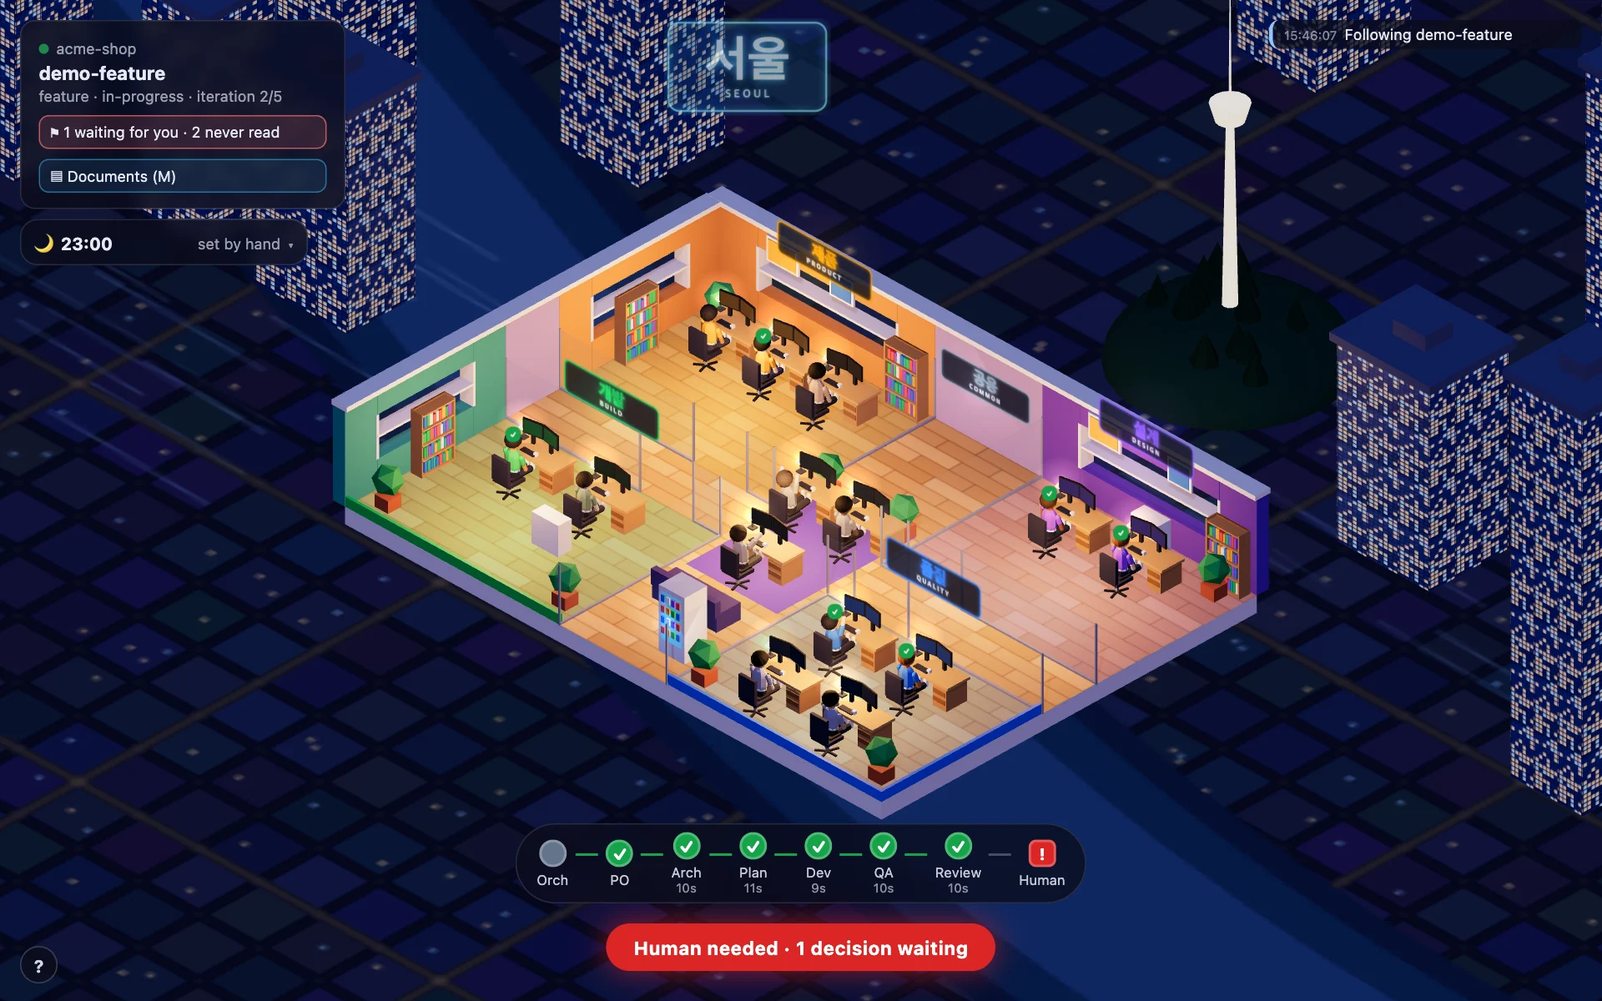
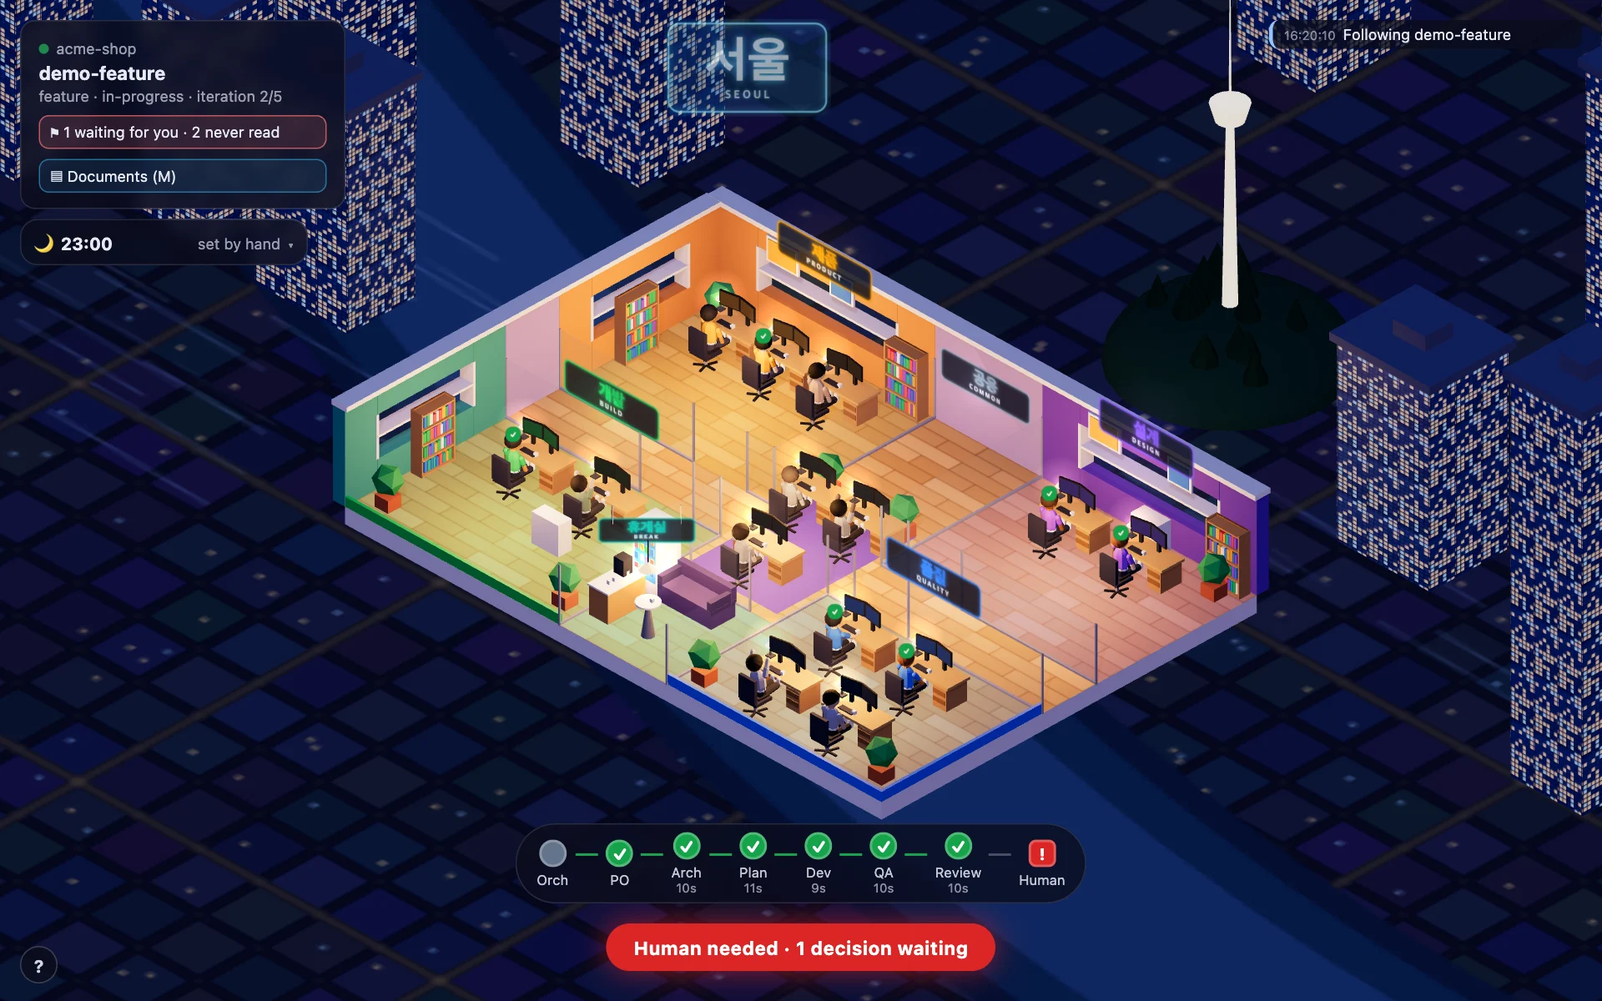
Office floor: a break room for the agents with nothing to do
- The break room past the hub: glass wall with a doorway at each end, its own warm light, a sofa facing the room, a coffee counter under its sign, a high table under a pendant lamp
- Now and then a resting role of the run strolls there and back: at most three away, no trail, "on a break" in the tooltip
- Who stays at the desk: at work, blocked, waiting for a human, about to receive a folder, shown in the panel, or outside the run; work calls a resting agent straight back
- Two at the high table chat: heads turned to each other, nods, a talking hand
- Routing to any point of the floor; tests that every role reaches every break place round the furniture
- ?breaks=off and ?breaks=busy keep the screenshots independent of chance; new break-room screenshot and README section

diff --git a/tools/office/web/agents.js b/tools/office/web/agents.js
@@ -1,6 +1,6 @@
 // One low-poly agent per role. Draws what the snapshot says; decides nothing about the workflow.
 import * as THREE from "three";
-import { TEAM_COLORS } from "./layout.js";
+import { BREAK_SPOTS, TEAM_COLORS } from "./layout.js";
 import { STATE_COLORS, STATE_GLYPHS, roleTitle } from "./roles.js";
 
 const SPEED = 3; // world units per second while walking a handoff: slow enough to follow with the eye
@@ -11,7 +11,14 @@ const HANDOVER_PAUSE = 0.6;
 const DEFER_MAX = 9; // the receiver starts working when the walker arrives, or after this
 const CHECK_SECONDS = 3;
 const IDLE_CYCLE = 18; // seconds of one resting routine: look around, stretch, sip, daydream
-const SKIN = 0xf1c7a0;
+// The break room: now and then a resting agent strolls there for a coffee or a sit on the sofa, and back.
+const BREAK_MAX = 3; // at most this many away from their desk at once, so the floor still reads who is where
+const BREAK_GAP = [4, 9]; // seconds between two departures
+const BREAK_STAY = [12, 20]; // seconds spent in the break room
+const BREAK_REST = 30; // back from a break, an agent stays at its desk at least this long
+const JOIN_CHANCE = 0.7; // someone already at the high table draws the next one there, to chat
+const BREAK_SPEED = 1.8; // a stroll, slower than a handoff
+const between = ([lo, hi]) => lo + Math.random() * (hi - lo);
 
 function textSprite(text, { fg, bg, size, w, h, scale }) {
   const c = document.createElement("canvas");
@@ -175,7 +182,9 @@ function makeAgent(role, seat) {
   return { role, seat, root, body, neck, arms, legs, folder, label, pips, sprites, materials, dim: 0, mode: "seated", phase: Math.random() * 6 };
 }
 
-export function createAgents(scene, layout, stations) {
+// breaks: "on", "off" (everyone stays at the desk), or "busy" (the break room fills at once and stays full).
+export function createAgents(scene, layout, stations, { breaks: breakMode = "on" } = {}) {
+  const busy = breakMode === "busy";
   const agents = new Map();
   const targets = []; // invisible boxes the pointer can hit, one on the desk and one on the agent
   const hitMaterial = new THREE.MeshBasicMaterial({ visible: false });
@@ -212,6 +221,9 @@ export function createAgents(scene, layout, stations) {
   const walks = []; // handoffs under way: a walker keeps its way home after the next handoff has begun
   const deferred = new Map(); // role -> seconds left before it shows as working
   const checks = new Map(); // role -> seconds left of the green check
+  const breaks = new Map(); // role -> { path, back, idx, phase: "out" | "stay" | "back", stay, spot, hurry }
+  const rested = new Map(); // role -> the time it came back from its last break
+  let nextBreak = breakMode === "busy" ? 0.3 : 4;
   let time = 0;
 
   const stateOf = (role) => (deferred.has(role) ? "idle" : run?.roles?.[role]?.state ?? "idle");
@@ -260,12 +272,102 @@ export function createAgents(scene, layout, stations) {
 
   function cancelWalks() {
     for (const walk of [...walks]) endWalk(walk, { seat: true });
+    for (const role of [...breaks.keys()]) endBreak(role);
     deferred.clear();
+  }
+
+  function endBreak(role) {
+    if (!breaks.delete(role)) return;
+    rested.set(role, time);
+    sit(agents.get(role));
+  }
+
+  // Work, a handoff on its way, or the role leaving the run: back to the desk now, at a handoff's pace.
+  function callBack(role) {
+    const leave = breaks.get(role);
+    if (!leave || leave.phase === "back") return;
+    // Walking out between path[idx - 1] and path[idx]: the way back starts at path[idx - 1].
+    leave.idx = leave.phase === "out" ? leave.path.length - leave.idx : 1;
+    leave.phase = "back";
+    leave.hurry = true;
+    agents.get(role).mode = "walking";
+  }
+
+  const resting = (role) => ["idle", "done"].includes(run?.roles?.[role]?.state ?? "idle");
+
+  // Who may leave: a role of the run (or any, with no run) with nothing to do, at its desk, not shown in the
+  // panel, not about to receive a folder, and not just back from a break.
+  function mayLeave(role, agent) {
+    return agent.mode === "seated" && !breaks.has(role) && !deferred.has(role) && !checks.has(role) && !outside(role)
+      && resting(role) && role !== selected && !walks.some((walk) => walk.agent === agent)
+      && time - (rested.get(role) ?? -Infinity) > BREAK_REST;
+  }
+
+  function scheduleBreak() {
+    if (breaks.size >= BREAK_MAX) return;
+    const taken = new Set([...breaks.values()].map((leave) => leave.spot));
+    const spots = BREAK_SPOTS.filter((spot) => !taken.has(spot));
+    const candidates = [...agents].filter(([role, agent]) => mayLeave(role, agent));
+    if (!spots.length || !candidates.length) return;
+    const [role, agent] = candidates[Math.floor(Math.random() * candidates.length)];
+    // Someone at the high table: the next one joins them more often than not.
+    const tableTaken = [...taken].some((spot) => spot.table);
+    const tableFree = spots.filter((spot) => spot.table);
+    const pool = tableFree.length && (busy || (tableTaken && Math.random() < JOIN_CHANCE)) ? tableFree : spots;
+    const spot = pool[Math.floor(Math.random() * pool.length)];
+    const path = layout.breakPath(role, spot);
+    breaks.set(role, { path, back: [...path].reverse(), idx: 1, phase: "out", stay: busy ? Infinity : between(BREAK_STAY), spot, hurry: false });
+    agent.mode = "walking";
+  }
+
+  function stepBreak(role, leave, dt) {
+    const agent = agents.get(role);
+    if (leave.phase === "stay") {
+      leave.stay -= dt;
+      if (leave.stay > 0) return;
+      leave.phase = "back";
+      leave.idx = 1;
+      agent.mode = "walking";
+    }
+    const path = leave.phase === "out" ? leave.path : leave.back;
+    const target = path[leave.idx];
+    const dx = target.x - agent.root.position.x;
+    const dz = target.z - agent.root.position.z;
+    const dist = Math.hypot(dx, dz);
+    const step = (leave.hurry ? SPEED : BREAK_SPEED) * dt;
+    if (dist > 1e-6) agent.root.rotation.y = Math.atan2(dx, dz);
+    if (step < dist) {
+      agent.root.position.x += (dx / dist) * step;
+      agent.root.position.z += (dz / dist) * step;
+      return;
+    }
+    agent.root.position.set(target.x, 0, target.z);
+    leave.idx += 1;
+    if (leave.idx < path.length) return;
+    if (leave.phase === "back") {
+      endBreak(role);
+      return;
+    }
+    leave.phase = "stay";
+    agent.root.rotation.y = leave.spot.rotY;
+    agent.mode = leave.spot.sits ? "seated" : "standing";
+  }
+
+  // Another agent standing at the high table, to chat with: the nearest one.
+  function chatPartner(role) {
+    const mine = breaks.get(role);
+    if (!mine || mine.phase !== "stay" || !mine.spot.table) return null;
+    let partner = null;
+    for (const [other, leave] of breaks) {
+      if (other !== role && leave.phase === "stay" && leave.spot.table) partner = agents.get(other);
+    }
+    return partner;
   }
 
   // A new handoff cuts short the walkers who have not yet reached their receiver, and the one
   // who is about to walk again; the others finish their way back to their desk.
   function startWalk(from, to, red) {
+    endBreak(from); // it was at work, so at its desk; never leave a walker in the break room
     for (const walk of [...walks]) {
       if (walk.agent.role !== from && walk.phase !== "out") continue;
       deferred.delete(walk.to);
@@ -361,6 +463,15 @@ export function createAgents(scene, layout, stations) {
       if (left - dt <= 0) checks.delete(role);
       else checks.set(role, left - dt);
     }
+    for (const role of breaks.keys()) {
+      if (deferred.has(role) || !resting(role) || outside(role)) callBack(role);
+    }
+    for (const [role, leave] of [...breaks]) stepBreak(role, leave, dt);
+    nextBreak -= dt;
+    if (breakMode !== "off" && nextBreak <= 0) {
+      nextBreak = busy ? 0.3 : between(BREAK_GAP);
+      scheduleBreak();
+    }
 
     for (const [role, agent] of agents) {
       const state = stateOf(role);
@@ -376,7 +487,8 @@ export function createAgents(scene, layout, stations) {
         agent.arms[1].rotation.x = -0.9;
         agent.body.rotation.z = 0;
       } else {
-        agent.legs[0].rotation.x = agent.legs[1].rotation.x = -Math.PI / 2; // seated: thighs forward
+        // Seated, at the desk or on the sofa: thighs forward. Standing at the counter or the table: straight.
+        agent.legs[0].rotation.x = agent.legs[1].rotation.x = agent.mode === "standing" ? 0 : -Math.PI / 2;
         const typing = working ? Math.sin(t) * 0.18 : 0;
         agent.arms[0].rotation.x = (working ? -1.15 : -0.35) + typing;
         agent.arms[1].rotation.x = (working ? -1.15 : -0.35) - typing;
@@ -390,6 +502,18 @@ export function createAgents(scene, layout, stations) {
         if (pose) {
           agent.arms[0].rotation.x += pose.armLeft;
           agent.arms[1].rotation.x += pose.armRight;
+        }
+        // Chatting at the high table: the head turns to the other one and nods, a hand talks along.
+        const partner = chatPartner(role);
+        if (partner) {
+          const toward = Math.atan2(partner.root.position.x - agent.root.position.x, partner.root.position.z - agent.root.position.z);
+          let yaw = toward - agent.root.rotation.y;
+          yaw = Math.atan2(Math.sin(yaw), Math.cos(yaw));
+          agent.neck.rotation.y = Math.max(-1.1, Math.min(1.1, yaw));
+          agent.neck.rotation.x = 0.06 * Math.sin(time * 3.2 + agent.phase);
+          agent.body.rotation.x = 0;
+          agent.arms[0].rotation.x = -0.35;
+          agent.arms[1].rotation.x = -0.35 - 0.7 * Math.max(0, Math.sin(time * 1.7 + agent.phase * 2));
         }
       }
       if (walking) {
@@ -441,5 +565,5 @@ export function createAgents(scene, layout, stations) {
     selected = select;
   };
 
-  return { apply, update, targets, setHighlight };
+  return { apply, update, targets, setHighlight, onBreak: (role) => breaks.has(role) };
 }

diff --git a/tools/office/web/scene.js b/tools/office/web/scene.js
@@ -1,6 +1,6 @@
 // The static floor: building, furniture, signs, night city. No workflow knowledge here.
 import * as THREE from "three";
-import { BOOKSHELVES, CABINETS, FLOOR, HUB, PARTITIONS, PLANTS, ROOMS, SIGN_FALLBACK, SIGN_LABELS, SOFA, TEAM_COLORS, VENDING } from "./layout.js";
+import { BOOKSHELVES, BREAK_ROOM, CABINETS, COFFEE, FLOOR, HIGH_TABLE, HUB, PARTITIONS, PLANTS, ROOMS, SIGN_FALLBACK, SIGN_LABELS, SOFA, TEAM_COLORS, VENDING } from "./layout.js";
 import { daylightAt, mix, skyGradient, sunArc, twilightAt } from "./daylight.js";
 import { createOutside } from "./outside.js";
 import { hangulAvailable, mulberry32, signTexture } from "./textures.js";
@@ -331,7 +331,7 @@ export function createScene(canvas, layout) {
   }
 
   // Furniture that makes it an office.
-  // Past the hub's second row of desks (z 8 to 10): the sofa and the vending machine wait in the corridor.
+  // Past the hub's second row of desks (z 8 to 10), the break room: the vending machine against its west glass.
   const VENDING_Z = VENDING.z;
   const vending = box(0.95, 2.1, 0.85, 0xe6ebf5, [VENDING.x, 1.05, VENDING_Z]);
   const front = new THREE.Mesh(new THREE.PlaneGeometry(0.75, 1.5), new THREE.MeshStandardMaterial({ color: 0x20324a, emissive: 0x4fb4ff, emissiveIntensity: 0.6 }));
@@ -344,8 +344,50 @@ export function createScene(canvas, layout) {
   scene.add(glow(0x4fb4ff, 2.6, 0.35, [VENDING.x, 1.2, VENDING_Z + 0.6]));
   for (const [at, facing] of BOOKSHELVES) scene.add(bookshelf(at, facing));
   for (const [x, z] of CABINETS) scene.add(box(1.0, 1.0, 0.5, 0xeef2fa, [x, 0.5, z]));
-  scene.add(box(2.4, 0.55, 0.9, 0x4a3f82, [SOFA.x, 0.28, SOFA.z]), box(2.4, 0.5, 0.2, 0x4a3f82, [SOFA.x, 0.7, SOFA.z + 0.4]));
+  // The sofa, its back to the hub: who sits there faces the room, and the camera.
+  scene.add(box(SOFA.w, 0.55, 0.9, 0x4a3f82, [SOFA.x, 0.28, SOFA.z]), box(SOFA.w, 0.5, 0.2, 0x4a3f82, [SOFA.x, 0.7, SOFA.z - 0.4]));
+  for (const dx of [-1, 1]) scene.add(box(0.16, 0.4, 0.9, 0x3d3470, [SOFA.x + dx * (SOFA.w / 2 - 0.08), 0.62, SOFA.z]));
   for (const [x, z] of PLANTS) scene.add(plant(x, z));
+
+  // The break room: a tinted floor, a coffee counter with its machine, a high table, and its sign.
+  const breakTint = new THREE.Mesh(new THREE.PlaneGeometry(BREAK_ROOM.w, BREAK_ROOM.d), new THREE.MeshBasicMaterial({ color: BREAK_ROOM.color, transparent: true, opacity: 0.3 }));
+  breakTint.rotation.x = -Math.PI / 2;
+  breakTint.position.set(BREAK_ROOM.x + BREAK_ROOM.w / 2, 0.015, BREAK_ROOM.z + BREAK_ROOM.d / 2);
+  scene.add(breakTint);
+  // Its own light, warmer than the desks', dimmed by day with the other lamps.
+  const breakLamp = new THREE.PointLight(0xffc78a, 22, 7, 1.3);
+  breakLamp.position.set(BREAK_ROOM.x + BREAK_ROOM.w / 2, 2.6, BREAK_ROOM.z + BREAK_ROOM.d / 2);
+  scene.add(breakLamp);
+  lamps.push(breakLamp);
+  // A pendant lamp over the high table, lit with the other lamps.
+  const pendantShade = new THREE.Mesh(new THREE.ConeGeometry(0.26, 0.24, 16, 1, true), new THREE.MeshStandardMaterial({ color: 0xffc78a, emissive: 0xffc78a, emissiveIntensity: 1.4, side: THREE.DoubleSide }));
+  pendantShade.position.set(HIGH_TABLE.x, 2.2, HIGH_TABLE.z);
+  SHADES.push({ material: pendantShade.material, base: 1.4 });
+  const pendantCord = box(0.02, 0.7, 0.02, 0x2a2e44, [HIGH_TABLE.x, 2.65, HIGH_TABLE.z]);
+  pendantCord.castShadow = false;
+  scene.add(pendantShade, pendantCord, glow(0xffc78a, 1.8, 0.5, [HIGH_TABLE.x, 2.12, HIGH_TABLE.z]));
+  scene.add(box(0.7, 0.95, 1.4, 0xb98a58, [COFFEE.x, 0.475, COFFEE.z]), box(0.78, 0.05, 1.48, 0xf4f6fb, [COFFEE.x, 0.97, COFFEE.z]));
+  scene.add(box(0.36, 0.5, 0.34, 0x2a2e44, [COFFEE.x - 0.08, 1.25, COFFEE.z - 0.3]), box(0.1, 0.12, 0.1, 0xf1f5f9, [COFFEE.x + 0.06, 1.06, COFFEE.z - 0.3]));
+  for (const dz of [0.15, 0.35]) scene.add(box(0.09, 0.11, 0.09, 0xf1f5f9, [COFFEE.x + 0.05, 1.05, COFFEE.z + dz]));
+  const tableTop = new THREE.Mesh(new THREE.CylinderGeometry(0.36, 0.36, 0.05, 20), new THREE.MeshStandardMaterial({ color: 0xf4f6fb, roughness: 0.5 }));
+  tableTop.position.set(HIGH_TABLE.x, 1.05, HIGH_TABLE.z);
+  tableTop.castShadow = true;
+  const tableFoot = new THREE.Mesh(new THREE.CylinderGeometry(0.05, 0.2, 1.03, 10), new THREE.MeshStandardMaterial({ color: 0x8a93ad, roughness: 0.4, metalness: 0.4 }));
+  tableFoot.position.set(HIGH_TABLE.x, 0.515, HIGH_TABLE.z);
+  scene.add(tableTop, tableFoot, box(0.09, 0.11, 0.09, 0xf1f5f9, [HIGH_TABLE.x + 0.1, 1.13, HIGH_TABLE.z - 0.05]));
+  const breakLabel = useHangul ? "휴게실" : "break";
+  const breakSign = new THREE.Mesh(new THREE.PlaneGeometry(2.6, 0.82), new THREE.MeshBasicMaterial({ map: signTexture(breakLabel, BREAK_ROOM.color, useHangul ? "BREAK" : null), transparent: true, toneMapped: false }));
+  SIGN_MATERIALS.push(breakSign.material);
+  // Hung over the coffee counter and turned to the camera, which looks from +x, +z: flat on the partition, it read edge-on.
+  breakSign.rotation.y = Math.PI / 4;
+  breakSign.position.set(COFFEE.x + 0.5, 2.45, COFFEE.z - 0.6);
+  scene.add(breakSign, glow(new THREE.Color(BREAK_ROOM.color), 2.6, 0.2, [breakSign.position.x + 0.14, breakSign.position.y, breakSign.position.z + 0.14]));
+  for (const dx of [-0.9, 0.9]) {
+    // Two thin cords from the ceiling, along the sign.
+    const cord = box(0.02, 0.6, 0.02, 0x8a93ad, [breakSign.position.x + dx * Math.SQRT1_2, 2.95, breakSign.position.z - dx * Math.SQRT1_2]);
+    cord.castShadow = false;
+    scene.add(cord);
+  }
   for (const [x, w] of [[2.4, 1.2], [4.6, 0.9], [14.4, 1.2], [17.2, 0.9]]) {
     scene.add(box(w, 0.8, 0.06, 0xf4f6fb, [x, 2.55, 0.06]), box(w - 0.16, 0.64, 0.02, [0xe8505b, 0x3b82f6, 0xf5a623, 0x22c55e][Math.round(x) % 4], [x, 2.55, 0.1], { emissive: 0x111111 }));
   }

diff --git a/tools/office/web/layout.js b/tools/office/web/layout.js
@@ -35,14 +35,30 @@ export const PARTITIONS = [
   [8, 8, 8, 14],
   [12, 8, 20, 8, [13, 15]],
   [12, 8, 12, 14],
+  [8.9, 10, 11.1, 10], // the break room's glass behind the sofa, a doorway on each side of it
 ];
 
 // Where the furniture stands, so that scene.js draws it and the walkers go round it from the same numbers.
 export const PLANTS = [[0.8, 0.8], [11.4, 4.6], [8.6, 4.6], [0.8, 13.2], [19.2, 13.2], [19.2, 0.8], [7.4, 13.2], [12.6, 13.2]];
 export const BOOKSHELVES = [[[7.2, 0.28], "z"], [[19.2, 0.28], "z"], [[0.28, 11], "x"], [[0.28, 3.4], "x"]];
 export const CABINETS = [[5.2, 11.5], [16.4, 0.35]];
-export const SOFA = { x: 10, z: 10.9 };
-export const VENDING = { x: 11.2, z: 12.6 };
+export const SOFA = { x: 10, z: 10.9, w: 2.0 }; // its back to the hub, facing the break room
+export const VENDING = { x: 8.53, z: 10.9 }; // against the west glass, beside the sofa, which it no longer hides
+
+// The break room, past the hub's second row: the sofa, the vending machine, a coffee counter and a high table.
+export const BREAK_ROOM = { x: 8, z: 10, w: 4, d: 4, color: "#14b8a6" };
+export const COFFEE = { x: 8.55, z: 12.4 }; // a counter 0.7 by 1.4, the machine on top
+export const HIGH_TABLE = { x: 10, z: 12.7 };
+// Where a resting agent goes: two places on the sofa, one at the coffee counter, three round the high table.
+// rotY is the way it faces, as on a seat; `sits` for the sofa; `table` where two can chat.
+export const BREAK_SPOTS = [
+  { x: 9.5, z: 11.0, rotY: 0, sits: true },
+  { x: 10.5, z: 11.0, rotY: 0, sits: true },
+  { x: 9.2, z: 11.95, rotY: -Math.PI / 2 },
+  { x: 10, z: 12.02, rotY: 0, table: true },
+  { x: 10, z: 13.38, rotY: Math.PI, table: true },
+  { x: 9.33, z: 12.85, rotY: Math.PI / 2, table: true },
+];
 
 const rect = (name, x, z, w, d) => ({ name, x0: x - w / 2, x1: x + w / 2, z0: z - d / 2, z1: z + d / 2 });
 
@@ -59,8 +75,10 @@ export const OBSTACLES = [
   ...PLANTS.map(([x, z]) => rect("plant", x, z, 0.8, 0.8)), // the leaves spread wider than the pot
   ...BOOKSHELVES.map(([[x, z], facing]) => (facing === "z" ? rect("bookshelf", x, z, 1.2, 0.42) : rect("bookshelf", x, z, 0.42, 1.2))),
   ...CABINETS.map(([x, z]) => rect("cabinet", x, z, 1.0, 0.5)),
-  { name: "sofa", x0: SOFA.x - 1.2, x1: SOFA.x + 1.2, z0: SOFA.z - 0.45, z1: SOFA.z + 0.5 },
+  { name: "sofa", x0: SOFA.x - SOFA.w / 2, x1: SOFA.x + SOFA.w / 2, z0: SOFA.z - 0.5, z1: SOFA.z + 0.45 },
   rect("vending machine", VENDING.x, VENDING.z, 0.95, 0.85),
+  rect("coffee counter", COFFEE.x, COFFEE.z, 0.7, 1.4),
+  rect("high table", HIGH_TABLE.x, HIGH_TABLE.z, 0.7, 0.7),
 ];
 
 const DESK = { w: 1.9, d: 0.85 };
@@ -194,11 +212,11 @@ export function createLayout(roleTeams) {
     return true;
   };
 
-  // Out of the chair, round the desks, chairs, partitions and furniture, to stand next to the receiver's chair.
+  // Out of the chair, round the desks, chairs, partitions and furniture, as close to `b` as the floor lets it:
+  // next to the receiver's chair for a handoff, onto the sofa or by the counter for a break.
   // The route found on the grid is pulled tight into a few straight segments, the way a person would walk it.
-  function walkPath(fromRole, toRole) {
+  function walkTo(fromRole, b) {
     const { free, dist, prev, centre } = routeFrom(fromRole);
-    const b = seatOf(toRole);
     let goal = -1;
     let best = Infinity;
     for (let i = 0; i < dist.length; i++) {
@@ -225,5 +243,15 @@ export function createLayout(roleTeams) {
     return path.map((p) => ({ x: Math.round(p.x * 100) / 100, z: Math.round(p.z * 100) / 100 }));
   }
 
-  return { FLOOR, ROOMS, HUB, seats, seatOf, walkPath };
+  const walkPath = (fromRole, toRole) => walkTo(fromRole, seatOf(toRole));
+
+  // To a place in the break room. The sofa is solid for the router: the last step sits down on it.
+  function breakPath(fromRole, spot) {
+    const path = walkTo(fromRole, spot);
+    const end = path.at(-1);
+    if (Math.hypot(end.x - spot.x, end.z - spot.z) > 0.01) path.push({ x: spot.x, z: spot.z });
+    return path;
+  }
+
+  return { FLOOR, ROOMS, HUB, seats, seatOf, walkPath, breakPath };
 }

diff --git a/tools/office/web/main.js b/tools/office/web/main.js
@@ -14,7 +14,9 @@ const first = await (await fetch("/api/snapshot")).json();
 const layout = createLayout(first.role_teams);
 const canvas = document.getElementById("floor");
 const view = createScene(canvas, layout);
-const agents = createAgents(view.scene, layout, view.stations);
+// ?breaks=off keeps everyone at their desk, ?breaks=busy fills the break room at once: a screenshot or a test
+// then does not depend on chance.
+const agents = createAgents(view.scene, layout, view.stations, { breaks: new URLSearchParams(location.search).get("breaks") ?? "on" });
 const aboutRole = first.role_about ?? {};
 
 // The hour follows the machine's clock, unless a period or an hour is picked by hand (or ?time=HH:MM).
@@ -326,7 +328,7 @@ createPicker({
     }
     const info = lastRun?.roles?.[role];
     const last = info?.reports?.at(-1);
-    const lines = [[layout.seats.get(role).team, info?.state ?? "idle", info?.verdict].filter(Boolean).join(" · ")];
+    const lines = [[layout.seats.get(role).team, info?.state ?? "idle", info?.verdict, agents.onBreak(role) && "on a break"].filter(Boolean).join(" · ")];
     if (aboutRole[role]) lines.push(aboutRole[role].length > 110 ? `${aboutRole[role].slice(0, 110).replace(/\s+\S*$/, "")}…` : aboutRole[role]);
     if (last) lines.push(`${last.name} · ${ago(last.mtime)}${last.duration != null ? ` · took ${took(last.duration)}` : ""}`);
     hud.showTip(roleTitle(role), lines, event.clientX, event.clientY);

diff --git a/tools/office/README.md b/tools/office/README.md
@@ -52,6 +52,12 @@ The floor follows your machine's clock. Sunrise is at 6:00 and sunset at 18:00 e
 
 The time box under the run card is folded to the hour; click it to open the controls. Pick `Dawn`, `Day`, `Dusk` or `Night` to fix a period, drag the slider to fix an hour, and `Auto` to follow the clock again. `N` cycles auto, dawn, day, dusk, night. Opening the page with `?time=19:30` starts at that hour, which is handy for a screenshot or a test. `T` (warm or cool palette) is independent of the hour.
 
+## Break room
+
+![The break room past the hub, behind its glass: a coffee counter under its sign, a high table under a pendant lamp, the sofa facing the room](docs/break-room.webp)
+
+Past the hub, behind a glass wall with a doorway at each end, the `휴게실` (break) room has its own warm light, a sofa facing the room, the vending machine, a coffee counter and a high table under a pendant lamp. Now and then a role of the run with nothing to do strolls there, sits on the sofa or stands at the counter or the table for a while, then walks back to its desk; the tooltip says `on a break`. Someone at the high table draws the next one there more often than not, and two at the table chat: they turn their heads to each other, nod and talk with a hand. No more than three are away at once, so the floor still reads who is where, and they leave no trail: a dotted trail always means a handoff. A role that is at work, blocked, waiting for a human, about to receive a folder, shown in the panel, or outside the run stays at its desk, and one on a break goes straight back when work comes its way. `?breaks=off` keeps everyone at their desk and `?breaks=busy` fills the break room at once, for a screenshot or a test.
+
 ## Reading an agent's screen
 
 ![QA's example map: each business rule with its examples and their source, and the open questions; the numbered buttons switch to its proof reports](docs/agent-report.webp)
